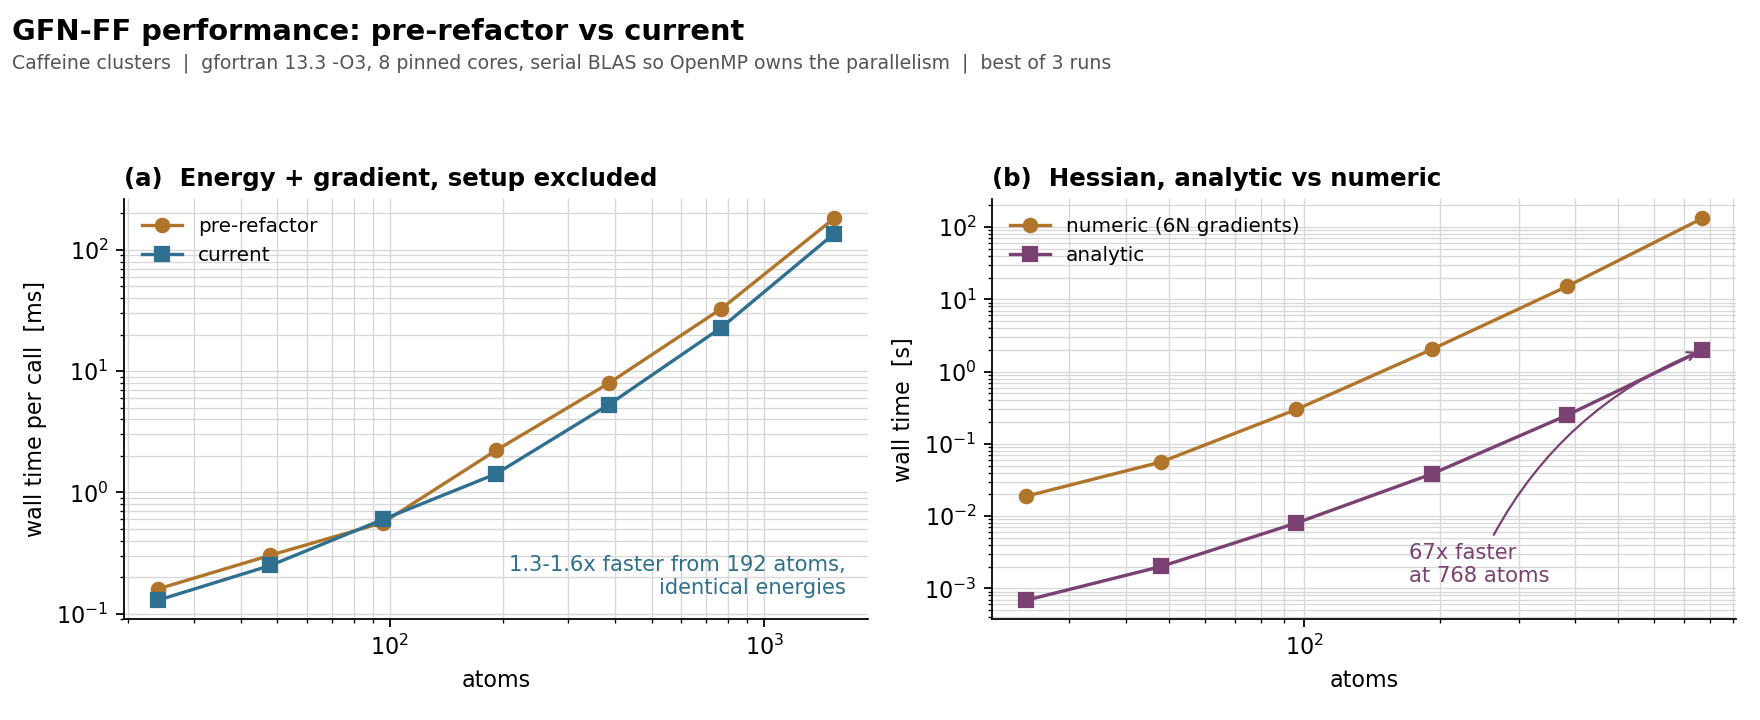
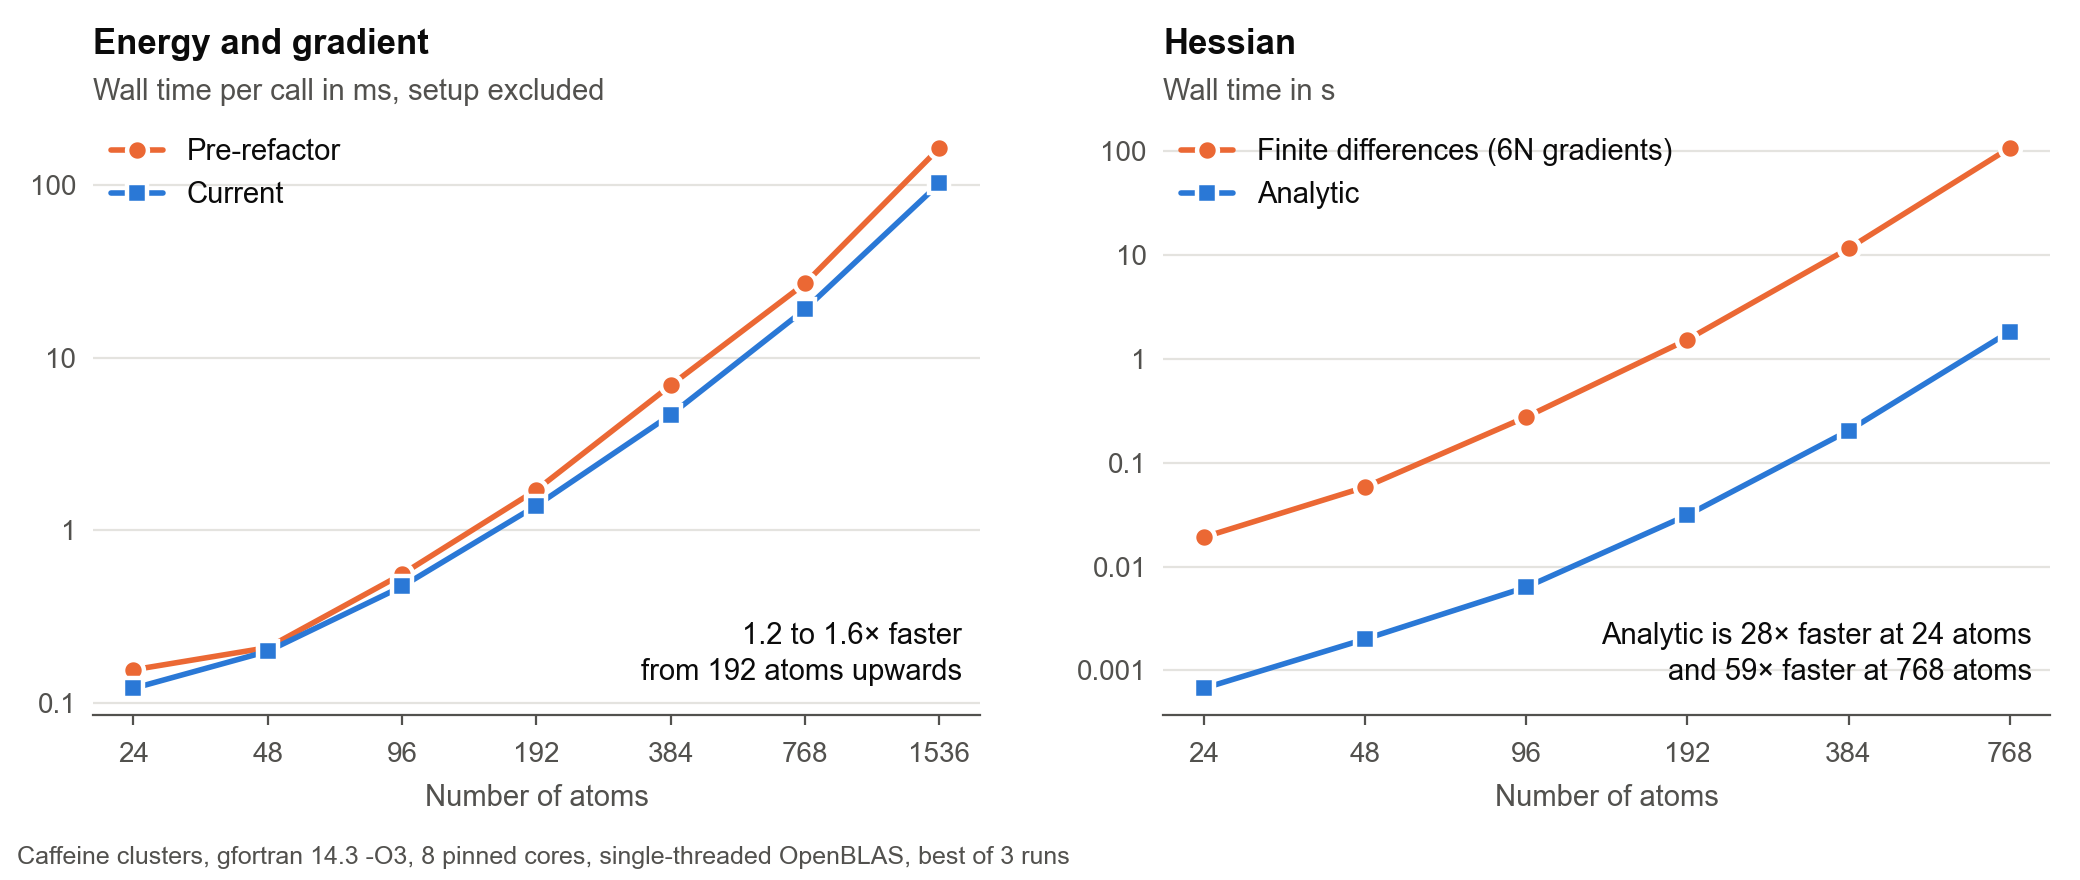
Remeasure speedup

diff --git a/docs/performance.md b/docs/performance.md
@@ -2,26 +2,26 @@
 
 ![GFN-FF benchmark](../assets/benchmark.png)
 
-Caffeine clusters from 24 to 1536 atoms, gfortran 13.3 `-O3`, pinned to 8
-physical cores, serial BLAS so that OpenMP provides the parallelism, best of 3
-runs. Both trees give the same energies to 2e-16.
+Caffeine clusters from 24 to 1536 atoms, gfortran 14.3 `-O3`, pinned to 8
+physical cores, OpenBLAS 0.3.31 restricted to one thread so that OpenMP provides
+the parallelism, best of 3 runs. Both trees give the same energies to 2e-16.
 
-- **(a)** Energy and gradient are 1.3–1.6x faster than the pre-refactor tree
+- **Energy and gradient** are 1.2–1.6x faster than the pre-refactor tree
   from 192 atoms upwards. Below that a call takes about a millisecond or less
   and the ratio is dominated by timer noise.
-- **(b)** The analytic Hessian is 27x faster than a full 6N-gradient finite
-  difference at 24 atoms and 67x faster at 768 atoms (2 s instead of 132 s).
+- **The analytic Hessian** is 28x faster than a full 6N-gradient finite
+  difference at 24 atoms and 59x faster at 768 atoms (1.8 s instead of 107 s).
 
 The setup is unchanged by the refactor and remains the practical size limit: at
-1536 atoms topology perception takes ~3.6 s against ~136 ms for a gradient. The
-speedup in (a) is a parallel one. On a single thread at 1536 atoms the current
-tree is ~16% slower (312 ms vs 269 ms), but it scales to 2.4x on 8 cores where
-the old tree reaches 1.6x.
+1536 atoms topology perception takes ~2.9 s against ~102 ms for a gradient. The
+energy and gradient speedup holds on a single thread as well: at 1536 atoms the
+current tree takes 174 ms against 248 ms, and it scales to 1.7x on 8 cores where
+the old tree reaches 1.5x.
 
 The analytic Hessian is dominated by three large `DGEMM` calls and one
 factorise-and-solve step. The electrostatic, dispersion and bond terms together
 account for ~93% of it, and each contracts a `(3N,N)` derivative block into the
-`(3N,3N)` Hessian. Its OpenMP parallelisation therefore gains only ~1.1x on 8
+`(3N,3N)` Hessian. Its OpenMP parallelisation therefore gains only ~1.2x on 8
 cores, whereas a threaded BLAS gives ~3.5x. Hessian performance hence depends
 mainly on the linear algebra backend. Reference netlib LAPACK is serial and
 costs roughly 1.6x on singlepoints and considerably more on Hessians.
@@ -29,5 +29,5 @@ costs roughly 1.6x on singlepoints and considerably more on Hessians.
 `-DBLA_VENDOR=...` (e.g. `OpenBLAS`, `Intel10_64lp`) to select one explicitly.
 
 The benchmark harness is in `bench/` (untracked, it generates its own
-structures); `bench/run.sh` reproduces the raw numbers and `bench/plot.py`
-redraws the figure.
+structures); `bench/build.sh` builds both trees, `bench/run2.sh` reproduces the
+raw numbers and `bench/plot.py` redraws the figure.

diff --git a/README.md b/README.md
@@ -91,8 +91,8 @@ see [docs/library.md](docs/library.md).
 ![GFN-FF benchmark](assets/benchmark.png)
 
 Caffeine clusters from 24 to 1536 atoms on 8 cores.
-Energy and gradient are 1.3–1.6x faster than the pre-refactor code from 192 atoms upwards,
-and the analytic Hessian is 27x (24 atoms) to 67x (768 atoms) faster than finite differences.
+Energy and gradient are 1.2–1.6x faster than the pre-refactor code from 192 atoms upwards,
+and the analytic Hessian is 28x (24 atoms) to 59x (768 atoms) faster than finite differences.
 Hessian speed depends mainly on the BLAS backend; details are in
 [docs/performance.md](docs/performance.md).
 
